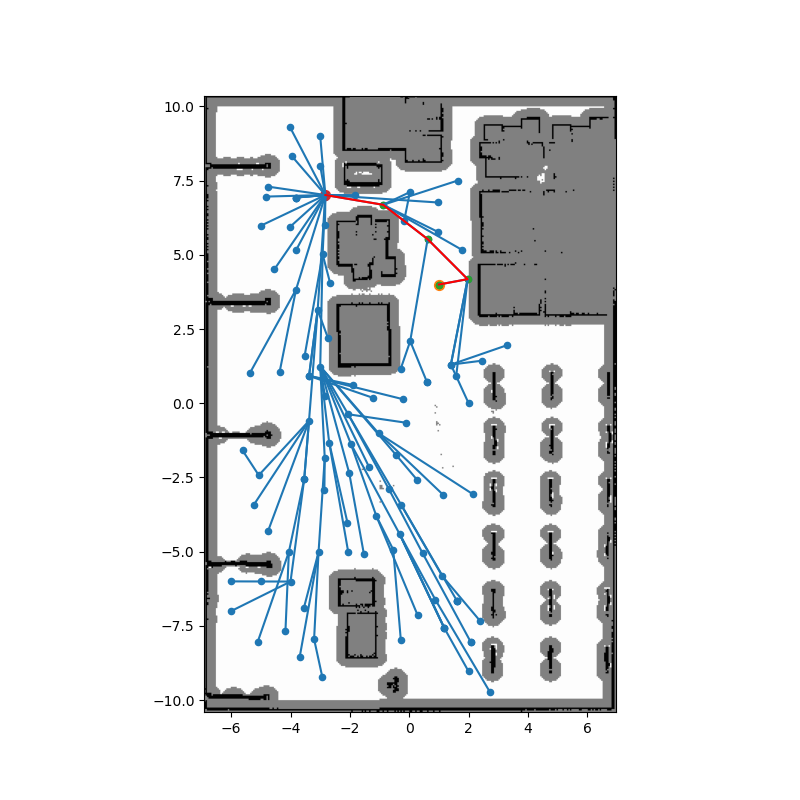
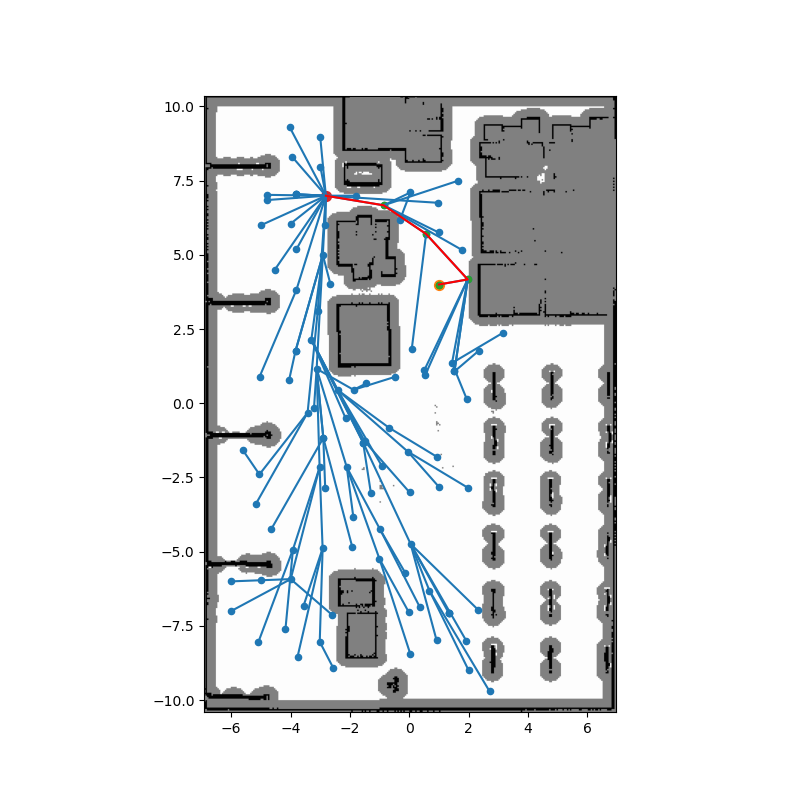
Add files via upload

Changed region(s): [[0.3125, 0.1875, 0.625, 0.8438], [0.5, 0.3438, 0.6562, 0.5], [0.4688, 0.2188, 0.5625, 0.3438]]

diff --git a/el7009_diff_drive_robot/scripts/plotpose.py b/el7009_diff_drive_robot/scripts/plotpose.py
@@ -10,6 +10,7 @@ import threading
 import numpy as np
 from tf_transformations import euler_from_quaternion
 import os
+import pandas as pd
 
 class PosePlotter(Node):
 
@@ -31,7 +32,12 @@ class PosePlotter(Node):
         self._map = None
         self.map_info = None
         self.map_received = False
-    
+        self.init_position=None
+        self.distance=None
+        self.data =None
+        self.csv=None
+        self.pos=None
+        self.plan_length=None
         # Subscribers (adjust topics if needed)
         self.goal_sub = self.create_subscription(PoseStamped, '/goal_pose', self.goal_callback, 10)
         self.create_subscription(PoseStamped, '/ground_truth_pose', self.gt_callback, 10)
@@ -57,24 +63,37 @@ class PosePlotter(Node):
 
     def goal_callback(self, msg):
         pos = msg.pose.position
-        self.goal_position = (pos.x, pos.y)
+        self.goal_position = [pos.x, pos.y]
+        
         if self.goal_position != self.prev_goal:
-            
+            self.init_position=[round(self.pos.x,1),round(self.pos.y,1)]
             self.get_logger().info(f'Nueva meta recibida: {self.goal_position}')
-            self.prev_goal == self.goal_position
+            self.prev_goal = self.goal_position
             self.isGNew = True
+            self.start=self.current_time
+            a = len('install/el7009_diff_drive_robot/lib/')
+            self.path = (os.path.dirname(os.path.dirname(os.path.abspath(__file__))))[:-a] + '/el7009_diff_drive_robot'
+            try:
+                self.csv= dict(pd.read_csv(self.path+'/data.csv'))
+            except:
+                pass
+            if self.data is not None and self.data!={}:
+                pd.DataFrame(self.data).to_csv(self.path+'/data.csv', mode='a',index=False, header=not os.path.exists(self.path+'/data.csv'))
+                self.data={}
+            else:
+                self.data={}
 
     def gt_callback(self, msg: PoseStamped):
-        self.gt_x.append(msg.pose.position.x)
-        self.gt_y.append(msg.pose.position.y)
+        self.pos = msg.pose.position
+        self.gt_x.append(self.pos.x)
+        self.gt_y.append(self.pos.y)
         ori = msg.pose.orientation
         _, _, self.theta = euler_from_quaternion([ori.x, ori.y, ori.z, ori.w])
-    
-    
-    def odom_callback(self, msg):
-        pos = msg.pose.pose.position
-        self.od_x.append(pos.x)
-        self.od_y.append(pos.y)
+        self.current_time=msg.header.stamp.sec + msg.header.stamp.nanosec * 1e-9
+        if self.goal_position is not None:
+            self.distance=np.linalg.norm(np.array(self.goal_position) - np.array([self.pos.x,self.pos.y]))
+
+        
 
     def crash_callback(self,msg):
          x = msg.pose.position.x
@@ -88,7 +107,8 @@ class PosePlotter(Node):
             self.global_path_y = [pose.pose.position.y for pose in msg.poses]
             self.gt_x, self.gt_y = [], []
             self.crashes=[]
-            self.isGNew = False             
+            self.isGNew = False          
+            self.plan_length= sum(np.linalg.norm([self.global_path_x[i+1]-self.global_path_x[i],self.global_path_y[i+1]-self.global_path_y[i]]) for i in range(len(self.global_path_x)-1))   
         
 
     def plot_loop(self):
@@ -98,9 +118,8 @@ class PosePlotter(Node):
             ax.clear()
             ax.set_title(f"")
             if len(self.global_path_x)!=0:
-                # ax.plot(self.global_path_x,self.global_path_y, 'b--', label='RRT* Path')
-                # ax.scatter(self.global_path_x[1:],self.global_path_y[1:], c='b')
-                ax.scatter(self.global_path_x[0],self.global_path_y[0], c='black', label='Init Position')
+                ax.plot(self.global_path_x,self.global_path_y, 'b--', label='RRT* Path')
+                ax.scatter(self.global_path_x[1:],self.global_path_y[1:], c='b')
             if len(self.crashes) != 0:
                 ax.scatter(self.crashes[0][0],self.crashes[0][1], c='r', label='Crashes')
                 for x,y in self.crashes[1:]:
@@ -116,8 +135,9 @@ class PosePlotter(Node):
                 try:
                     ax.plot(self.gt_x, self.gt_y, 'g', label='Trajectory')
                 except: pass
-            if self.goal_position is not None:
+            if self.goal_position is not None and self.init_position is not None:
                 ax.scatter(self.goal_position[0],self.goal_position[1], c='cyan', label='Goal Position')
+                ax.scatter(self.init_position[0],self.init_position[1], c='black', label='Init Position')
                 
             if self.map_received:
                 extent = [
@@ -129,10 +149,18 @@ class PosePlotter(Node):
                 ax.imshow(np.flipud(self._map), cmap='gray', extent=extent, origin='upper', vmin=0, vmax=100)
             ax.grid()
             ax.legend(mode='expand', loc='upper center', ncol=5)
-            if self.goal_position is not None and len(self.global_path_x)>0:
-                a = len('install/el7009_diff_drive_robot/')
-                d = os.path.dirname(os.path.dirname(os.path.abspath(__file__)))
-                plt.savefig(f'{os.path.dirname(d)[:-a]}/el7009_diff_drive_robot/trajectory/({round(self.global_path_x[0])},{round(self.global_path_y[0])}){self.goal_position}.png')
+            if self.goal_position is not None and self.goal_position!=self.init_position and self.data is not None:
+                plt.savefig(f'{self.path}/trajectory/({self.init_position[1]},{self.init_position[1]})({self.goal_position[0]},{self.goal_position[1]}).png')
+                self.data['init'] = [str(self.init_position)]
+                self.data['goal'] = [str(self.goal_position)]
+                self.data['Distance to Goal'] = [self.distance]
+                self.data['Plan Distance'] = [self.plan_length]
+                self.data['Time'] = [self.current_time-self.start]
+                if self.distance<0.2:
+                    self.data['Goal Reached']=[True]
+                else:
+                    self.data['Goal Reached']=[False]
+                # self.get_logger().info(f'{self.data}')
             # plt.pause(0.001)
 def main(args=None):
     rclpy.init(args=args)

diff --git a/el7009_diff_drive_robot/plot_means.py b/el7009_diff_drive_robot/plot_means.py
@@ -1,0 +1,50 @@
+import pandas as pd
+import matplotlib.pyplot as plt
+import os
+# Load CSV
+df = pd.read_csv(f"{os.path.dirname(__file__)}/data.csv")
+
+# Create a "pair" column
+df["pair"] = list(zip(
+    df["init"],
+    df["goal"]
+))
+
+# Group: mean, std, and list of values
+stats = df.groupby("pair")["Distance to Goal"].agg(
+    mean="mean",
+    std="std",
+    values=lambda x: list(x)
+).reset_index()
+
+# --- Plot mean ± std ---
+plt.figure(figsize=(10, 5))
+plt.errorbar(
+    range(len(stats)),
+    stats["mean"],
+    yerr=stats["std"],
+    fmt="o",
+    capsize=5,
+    color="blue",
+    ecolor="black",
+    label="Mean ± Std"
+)
+
+# Plot individual values (slightly jittered for visibility)
+for i, vals in enumerate(stats["values"]):
+    plt.scatter(
+        [i] * len(vals),  # same x position
+        vals,
+        color="orange",
+        alpha=0.6,
+        s=20,
+        label="Individual values" if i == 0 else None  # only label first for legend
+    )
+
+plt.xticks(range(len(stats)), stats["pair"], rotation=45, ha="right")
+plt.xlabel("Initial Position → Goal Position")
+plt.ylabel("Plan Distance (m)")
+plt.title("Plan Distance by Position Pair (Mean ± Std & Individual Values)")
+plt.legend()
+plt.tight_layout()
+plt.show()

diff --git a/el7009_diff_drive_robot/means_all.py b/el7009_diff_drive_robot/means_all.py
@@ -1,0 +1,47 @@
+import pandas as pd
+import matplotlib.pyplot as plt
+import os
+
+# Load CSV
+df = pd.read_csv(f"{os.path.dirname(__file__)}/data.csv")
+
+# Column with distances
+distances = df["Distance to Goal"]
+
+# Mean and std of all data
+mean_distance = distances.mean()
+std_distance = distances.std()
+
+print(f"Mean distance to goal: {mean_distance:.3f}")
+print(f"Std distance to goal: {std_distance:.3f}")
+
+# --- Plot ---
+plt.figure(figsize=(6, 5))
+
+# Mean ± std as a point with error bar
+plt.errorbar(
+    0, mean_distance,
+    yerr=std_distance,
+    fmt="o",
+    capsize=5,
+    color="blue",
+    ecolor="black",
+    label="Mean ± Std"
+)
+
+# All individual values (jittered horizontally for visibility)
+plt.scatter(
+    [0.05] * len(distances),  # small offset from the mean
+    distances,
+    color="orange",
+    alpha=0.6,
+    s=20,
+    label="Individual values"
+)
+
+plt.xticks([0, 0.05], ["Mean", "Values"])
+plt.ylabel("Distance to Goal (m)")
+plt.title("Distance to Goal (All Data)")
+plt.legend()
+plt.tight_layout()
+plt.show()

diff --git a/el7009_diff_drive_robot/launch/robot.launch.py b/el7009_diff_drive_robot/launch/robot.launch.py
@@ -130,7 +130,7 @@ def generate_launch_description():
         declare_world,
 
         # Launch the nodes
-        # rrt_star,
+        rrt_star,
         rviz2,
         rsp,
         gazebo_server,
